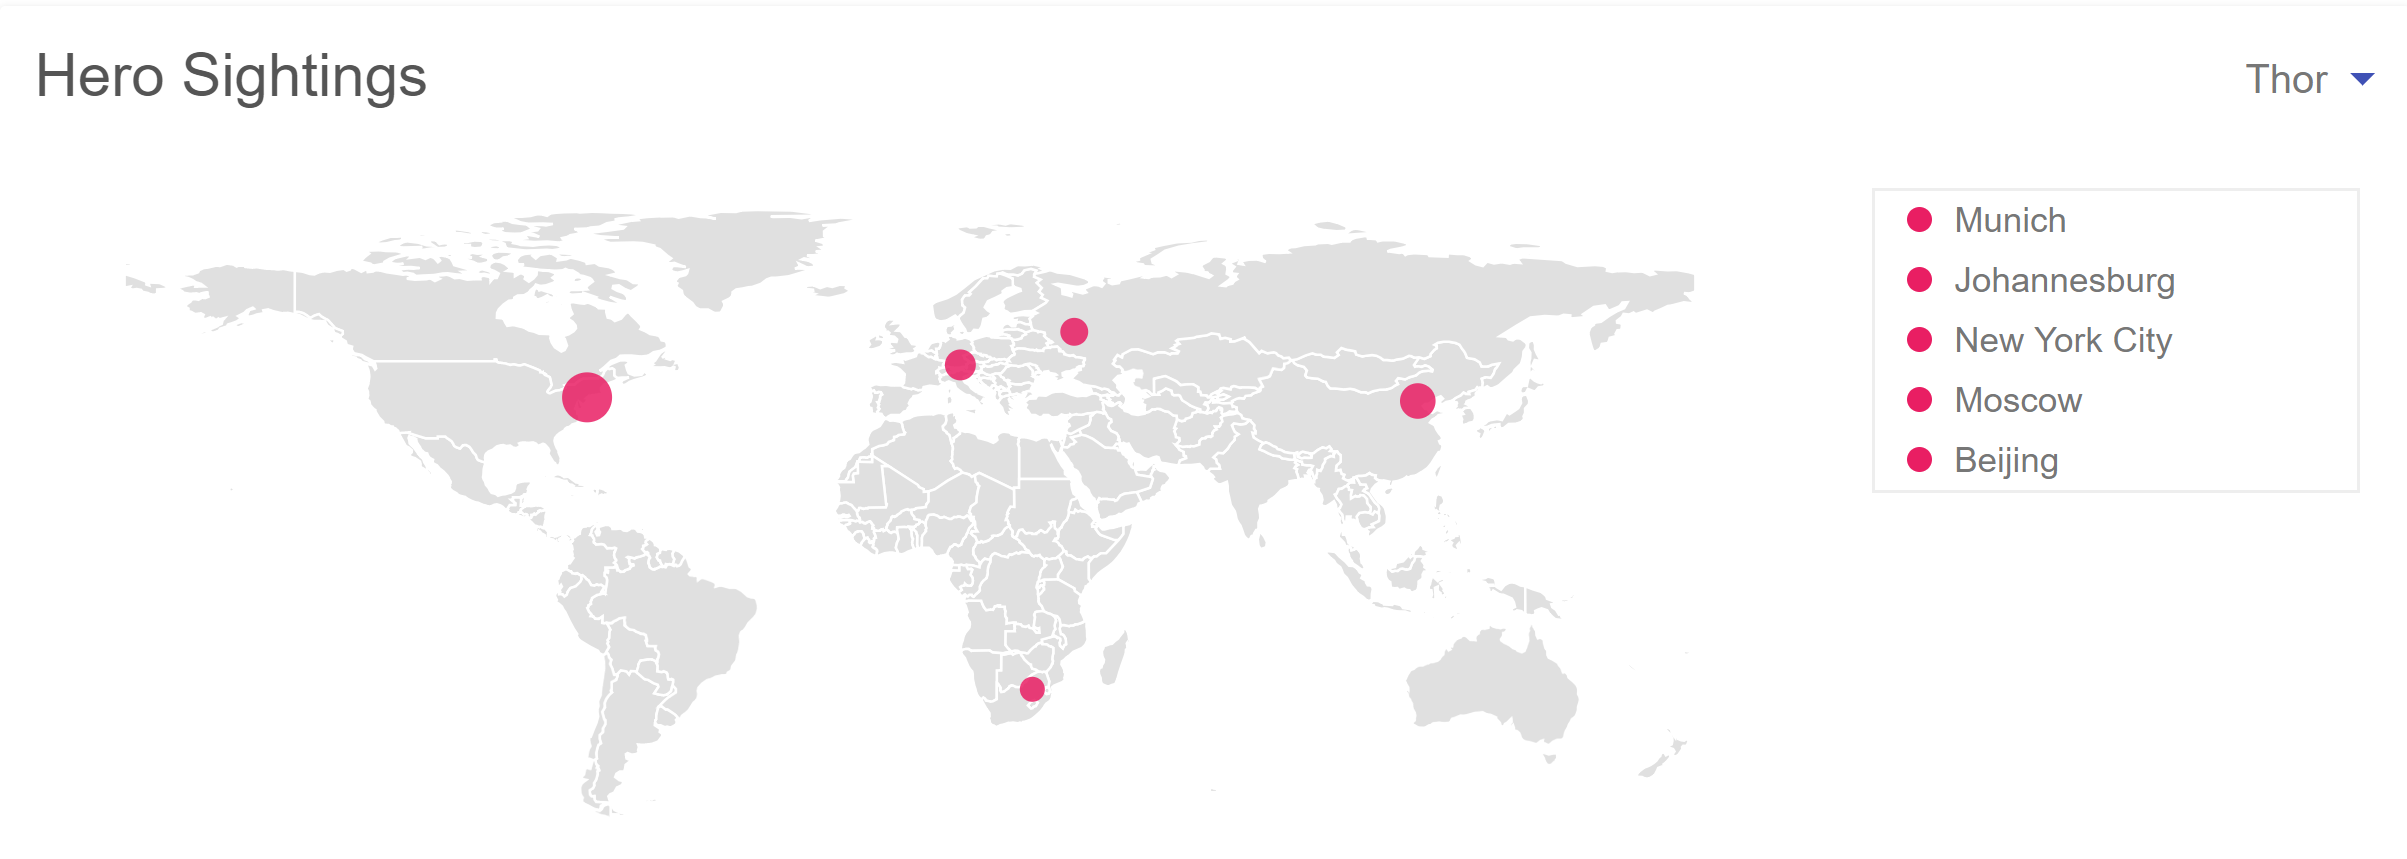
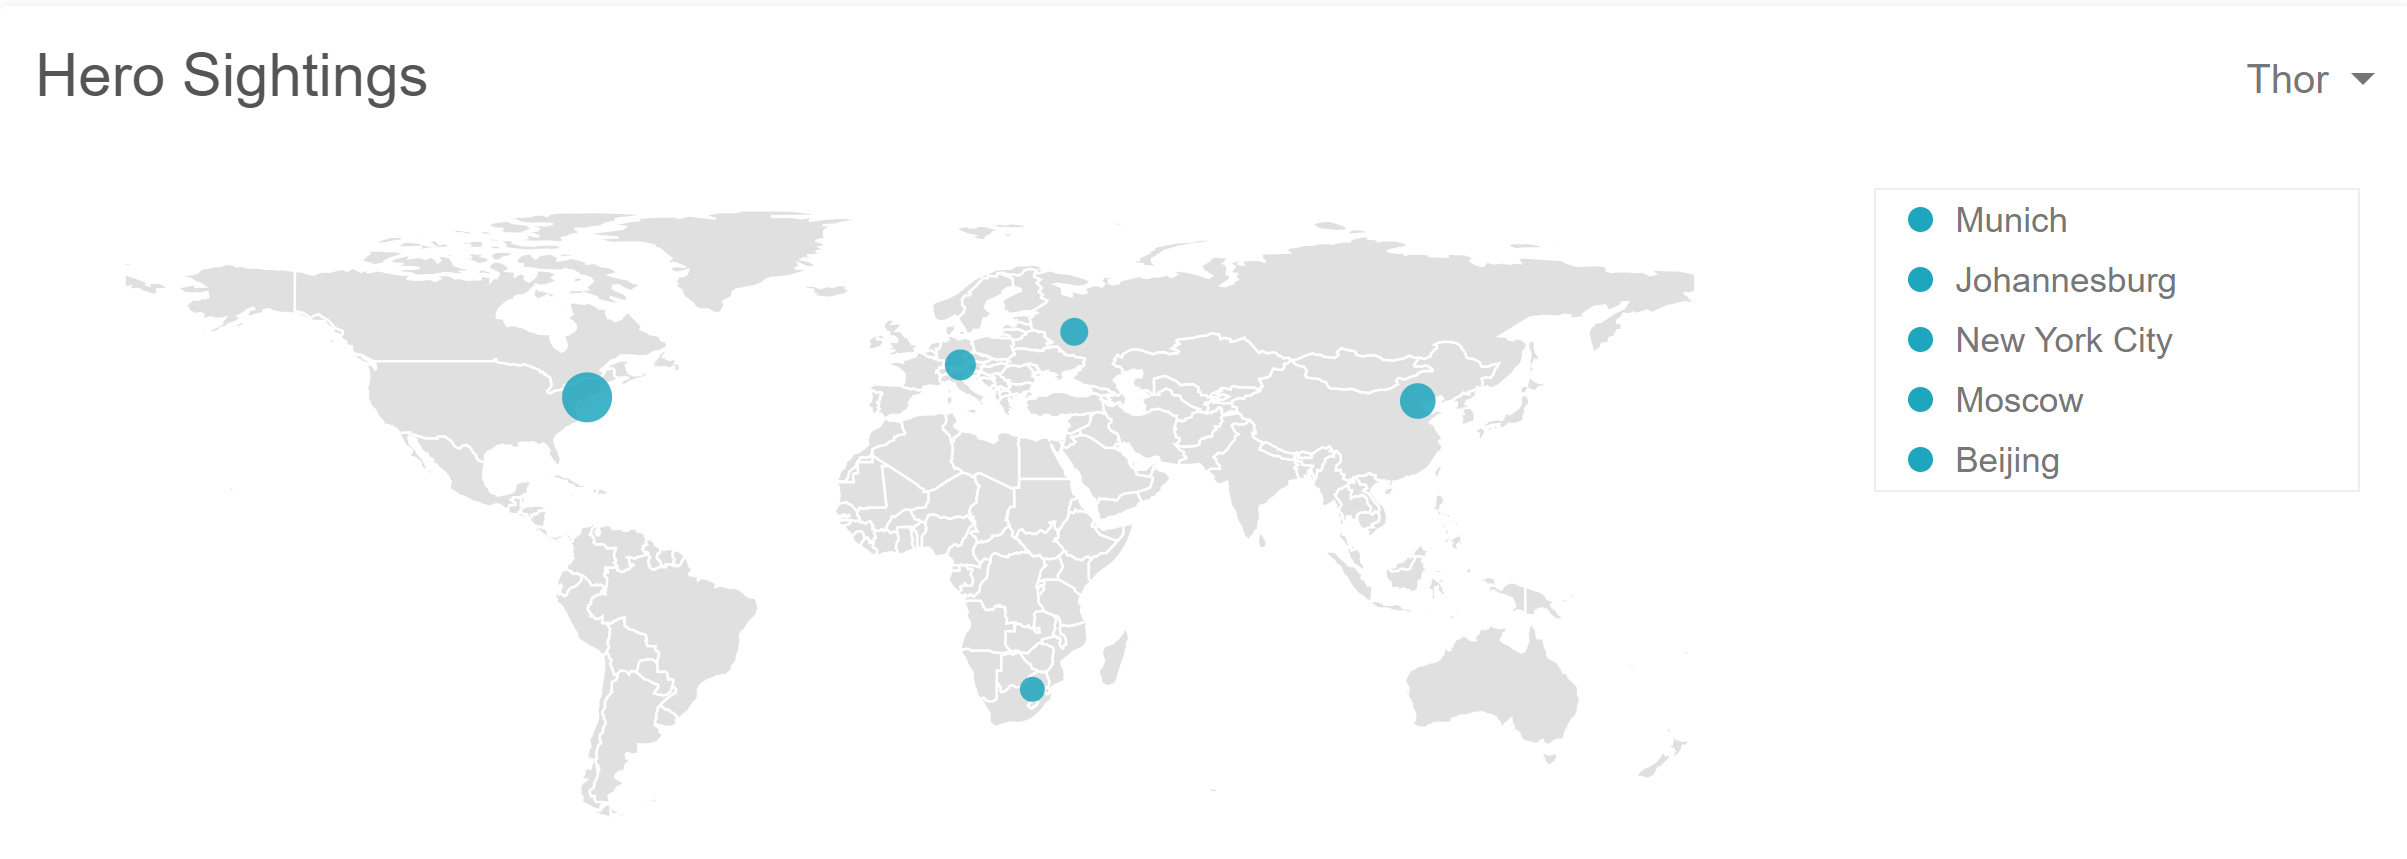
Changed color from pink to teal

diff --git a/src/app/map/map.component.ts b/src/app/map/map.component.ts
@@ -11,7 +11,7 @@ export class MapComponent implements OnInit, AfterViewInit {
 
     @Input() heroData;
 
-    heroSelect = new FormControl('batman');
+    heroSelect = new FormControl('thor');
     heroFilePath: any;
 
     minHero: number;
@@ -107,7 +107,8 @@ export class MapComponent implements OnInit, AfterViewInit {
             .attr('r', (d) => {
                 return this.calculateRadius(d.metric);
             })
-                .style('fill', 'rgb(233,30,99)')
+                //.style('fill', 'rgb(233,30,99)')
+                .style('fill', 'rgb(30,166,191)')
                 .style('opacity', 0.85)
             // show tooltip
             .on('mouseover', (d) => {

diff --git a/src/app/app.component.ts b/src/app/app.component.ts
@@ -9,6 +9,13 @@ export class AppComponent {
   title = 'd3-zoomable-angular5-map';
 
   public sightingsData = {
+    thor: [
+      'Munich',
+      'Johannesburg',
+      'New York City',
+      'Moscow',
+      'Beijing'
+    ],
     batman: [
         'Tucson',
         'San Francisco',
@@ -22,13 +29,6 @@ export class AppComponent {
         'Paris',
         'Madrid',
         'Prague'
-    ],
-    thor: [
-        'Munich',
-        'Johannesburg',
-        'New York City',
-        'Moscow',
-        'Beijing'
     ],
     wolverine: [
         'Paris',

diff --git a/src/app/map/map.component.html b/src/app/map/map.component.html
@@ -3,9 +3,9 @@
     Hero Sightings
         <mat-form-field class="select-hero">
             <mat-select [formControl]="heroSelect" (selectionChange)="drawHeroCircles()">
+                <mat-option value="thor">Thor</mat-option>
                 <mat-option value="batman">Batman</mat-option>
                 <mat-option value="wonderwoman">Wonder Woman</mat-option>
-                <mat-option value="thor">Thor</mat-option>
                 <mat-option value="wolverine">Wolverine</mat-option>
             </mat-select>
         </mat-form-field>

diff --git a/src/app/map/map.component.scss b/src/app/map/map.component.scss
@@ -50,7 +50,8 @@
     }
 
     .dot {
-        background-color: #E91E63;
+        //background-color: #E91E63;
+        background-color: #1ea6bf;
         border-radius: 5px;
         display: inline-block;
         height: 10px;
@@ -85,3 +86,10 @@
     z-index: 8888;    
 }
     
+::ng-deep .mat-primary .mat-option.mat-selected:not(.mat-option-disabled) {
+    color: #1ea6bf;
+}
+
+::ng-deep .mat-form-field.mat-focused.mat-primary .mat-select-arrow {
+    color: rgba(0,0,0,0.54);
+}
